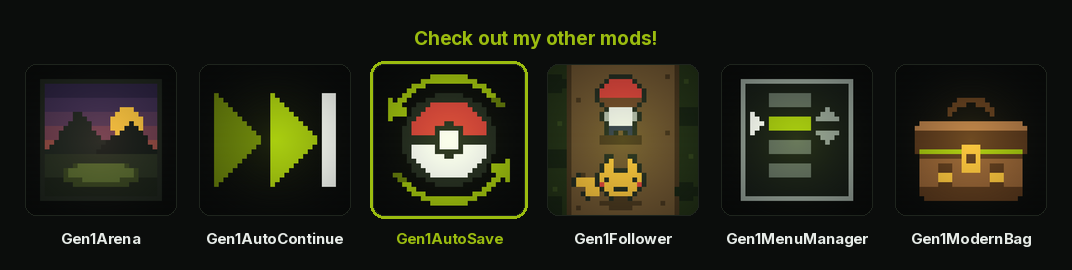
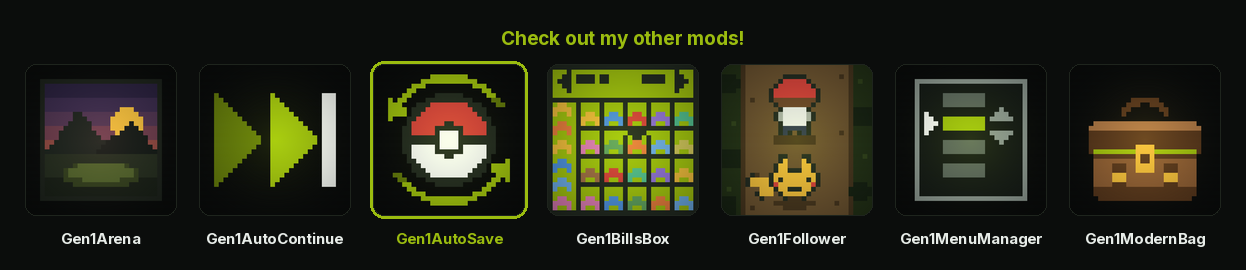
Add Gen1BillsBox, and rebuild the feed when a mod releases
Two things, both about the index catching up with its mods.

**Gen1BillsBox joins the index.** A Gen 3-style storage screen that replaces
Bill's PC: the party down the left, the open box as a 5x4 grid on the right,
and a cursor that picks a POKeMON up and puts it down. Tracking
wild1walker/Gen1BillsBox, currently 1.0.6.

Its icon is Pikachu coming up out of a cardboard box -- drawn over the far
flaps and under the near wall, which is what puts him in the box rather than
behind it. make_icons.py gains bills_box() keyed on the mod's id. Rebuilding
every icon still reproduces the other six byte for byte.

The lineup strips are regenerated with him in them, which is why all seven
change: the strip is one row, so a seventh tile moves every tile in it. The
README table, both alt texts and the two places that counted the mods follow.

**A release now says so instead of waiting to be noticed.** Gen1ModernBag
tagged 1.1.0 at 22:32 and the feed still described 1.0.0, because the last
rebuild had run at 05:44 and nothing was due until 05:17 the next morning.
That is the design working as written -- up to a day between tagging a
release and the card offering it -- and it is the wrong trade for a feed
whose whole job is to be current.

So index.yml now also listens for a `mod-released` repository_dispatch, and
every mod repo carries .github/workflows/notify-index.yml to fire it. The
payload only names the mod for the log: the build reads every entry's
[…]

diff --git a/site/index.html b/site/index.html
@@ -10,7 +10,7 @@
 <link rel="apple-touch-icon" href="favicon.png">
 
 <!-- The strip is the unfurl rather than the wordmark: it is opaque, and it
-     shows the six mods and their names, which is what someone dropping the
+     shows the seven mods and their names, which is what someone dropping the
      link in a chat wants the preview to say. -->
 <meta property="og:type" content="website">
 <meta property="og:site_name" content="Gen1Wild">
@@ -20,7 +20,7 @@
 <meta property="og:image" content="https://wild1walker.github.io/Gen1Wild/banners/lineup.png">
 <meta property="og:image:width" content="1072">
 <meta property="og:image:height" content="231">
-<meta property="og:image:alt" content="Gen1Arena, Gen1AutoContinue, Gen1AutoSave, Gen1Follower, Gen1MenuManager and Gen1ModernBag">
+<meta property="og:image:alt" content="Gen1Arena, Gen1AutoContinue, Gen1AutoSave, Gen1BillsBox, Gen1Follower, Gen1MenuManager and Gen1ModernBag">
 <meta name="twitter:card" content="summary_large_image">
 
 <style>

diff --git a/tools/make_icons.py b/tools/make_icons.py
@@ -323,6 +323,72 @@ def modern_bag():
         a.rect(x, 23, x + 2, 24, AMBER)
     return a, AMBER
 
+def bills_box():
+    """Pikachu coming up out of the box.
+
+    The mod replaces a PC that only ever showed you a list of twenty names,
+    so the icon shows the one thing that list never did: what is actually in
+    the box.  He is drawn over the far flaps and under the near wall, which
+    is what puts him inside the box rather than behind it.
+    """
+    a = Art()
+    card = (0xb5, 0x86, 0x4e)                      # cardboard, lit from above
+    card_d = (0x8a, 0x63, 0x36)
+    card_l = (0xcf, 0xa2, 0x66)
+    pika = AMBER
+    pika_d = (0xc2, 0x8e, 0x22)
+
+    # The two far flaps, folded back and away.  These are behind him.
+    a.poly([(5, 18), (1, 12), (5, 9), (12, 16)], card_d)
+    a.poly([(26, 18), (30, 12), (26, 9), (19, 16)], card_d)
+
+    # An ear is three shapes over each other: the whole ear a shade darker,
+    # the ear inside that, and the black tip inside that again.  The darker
+    # one is doing the work -- a black tip against the dark behind it loses
+    # its outline entirely without a rim to sit in.
+    for outer, inner, tip in (
+        ([(12.8, 11.6), (15.6, 9.6), (11.2, 0.0), (8.0, 1.5)],
+         [(12.5, 10.7), (14.8, 9.2), (10.9, 1.0), (8.6, 2.1)],
+         [(11.2, 0.0), (8.0, 1.5), (10.1, 6.0), (13.3, 4.5)]),
+        ([(19.2, 11.6), (16.4, 9.6), (20.8, 0.0), (24.0, 1.5)],
+         [(19.5, 10.7), (17.2, 9.2), (21.1, 1.0), (23.4, 2.1)],
+         [(20.8, 0.0), (24.0, 1.5), (21.9, 6.0), (18.7, 4.5)]),
+    ):
+        a.poly(outer, pika_d)
+        a.poly(inner, pika)
+        a.poly(tip, INK)
+
+    a.ellipse(16, 14.2, 6.8, 5.6, pika_d)          # the head, on its own rim
+    a.ellipse(16, 13.6, 6.6, 5.4, pika)
+    a.disc(10.8, 16.0, 2.0, RED)                   # cheeks
+    a.disc(21.2, 16.0, 2.0, RED)
+    for ex, gx in ((12.8, 12), (19.2, 19)):        # eyes, with a glint each
+        a.disc(ex, 12.2, 1.7, INK)
+        a.px(gx, 11, WHITE)
+    a.px(16, 14, INK)                              # nose, over the two lips
+    a.rect(14, 16, 15, 16, INK)                    # and the mouth they open
+    a.rect(17, 16, 18, 16, INK)
+    a.rect(15, 17, 17, 17, INK)
+
+    # The near wall, drawn over him: below this line he is in the box.
+    a.rect(3, 18, 28, 29, card)
+    a.rect(3, 18, 28, 19, card_l)                  # the rim, catching light
+    a.rect(3, 27, 28, 29, card_d)                  # and the shadowed foot
+    a.rect(15, 20, 16, 26, card_d)                 # the seam down the front
+    a.frame(3, 18, 28, 29, card_d)
+
+    # Both paws over the rim, holding himself up on it.
+    for x in (6, 22):
+        a.rect(x, 16, x + 3, 19, pika)
+        a.rect(x, 19, x + 3, 19, pika_d)
+        a.px(x + 1, 16, pika_d)
+        a.px(x + 2, 16, pika_d)
+
+    # The two near flaps, folded down over the front corners.
+    a.poly([(3, 18), (3, 25), (7, 22), (7, 18)], card_l)
+    a.poly([(28, 18), (28, 25), (24, 22), (24, 18)], card_l)
+    return a, AMBER
+
 
 ICONS = {
     "gen1autosave": autosave,
@@ -331,6 +397,7 @@ ICONS = {
     "Gen1MenuManager": menu_manager,
     "Gen1Follower": gen1_follower,
     "gen1_modern_bag": modern_bag,
+    "Gen1BillsBox": bills_box,
 }
 
 

diff --git a/README.md b/README.md
@@ -8,7 +8,7 @@
 </p>
 
 <p align="center">
-  <a href="https://wild1walker.github.io/Gen1Wild/"><img src="site/banners/lineup.png" alt="Gen1Arena, Gen1AutoContinue, Gen1AutoSave, Gen1Follower, Gen1MenuManager and Gen1ModernBag" width="920"></a>
+  <a href="https://wild1walker.github.io/Gen1Wild/"><img src="site/banners/lineup.png" alt="Gen1Arena, Gen1AutoContinue, Gen1AutoSave, Gen1BillsBox, Gen1Follower, Gen1MenuManager and Gen1ModernBag" width="920"></a>
 </p>
 
 ## What is in the index
@@ -18,6 +18,7 @@
 | <img src="mods/Wild@gen1arena/thumbnail.png" width="54" alt=""> | **[Gen1Arena](https://github.com/wild1walker/Gen1Arena)** | 2D backdrops behind battles, picked by map, tileset and how the encounter started. |
 | <img src="mods/Wild@gen1_auto_continue/thumbnail.png" width="54" alt=""> | **[Gen1AutoContinue](https://github.com/wild1walker/Gen1AutoContinue)** | Boot to title, one press, playing. Skips the intro, the CONTINUE / NEW GAME menu and the save-info window. |
 | <img src="mods/Wild@gen1autosave/thumbnail.png" width="54" alt=""> | **[Gen1AutoSave](https://github.com/wild1walker/Gen1AutoSave)** | Autosaves on a play-time timer and after battles, catches and new areas, with optional rollback backups. |
+| <img src="mods/Wild@Gen1BillsBox/thumbnail.png" width="54" alt=""> | **[Gen1BillsBox](https://github.com/wild1walker/Gen1BillsBox)** | Replaces Bill's PC with the box it was standing in for: the party down the left, twenty visible slots on the right, and a cursor that carries a Pokémon. |
 | <img src="mods/Wild@Gen1Follower/thumbnail.png" width="54" alt=""> | **[Gen1Follower](https://github.com/wild1walker/Gen1Follower)** | All 251 Gen 1 and Gen 2 overworld followers, with Pokédex-proportional sizing and voxel support. Built from the PokéPC Followers work by Antigravity & gamecorner33. |
 | <img src="mods/Wild@Gen1MenuManager/thumbnail.png" width="54" alt=""> | **[Gen1MenuManager](https://github.com/wild1walker/Gen1MenuManager)** | Rearrange the START menu and the Pokémon Center PC menu: reorder rows, hide the ones you never touch, and pin field items and moves to rows of their own. |
 | <img src="mods/Wild@gen1_modern_bag/thumbnail.png" width="54" alt=""> | **[Gen1ModernBag](https://github.com/wild1walker/Gen1ModernBag)** | Seven inventory pockets with auto-sorting, Favorites, pinned items, quick search, TM/HM tools and no capacity limit. Derived from FAFF0x's Modern Bag. |
@@ -127,11 +128,11 @@ before it goes in:
   shape.
 - Ids must be unique within this feed.
 
-**Versions look after themselves.** With `github` set, the nightly rebuild
-reads that repo's Releases, takes the newest one with a `.zip` asset, and puts
-it on the card — so tag a release in the mod's own repo and this index catches
-up without being touched. The `version` in `meta.json` is only the fallback
-shown when no release can be resolved.
+**Versions look after themselves.** With `github` set, a rebuild reads that
+repo's Releases, takes the newest one with a `.zip` asset, and puts it on the
+card — so tag a release in the mod's own repo and this index catches up without
+being touched. The `version` in `meta.json` is only the fallback shown when no
+release can be resolved.
 
 Opt out with `"automatic_version_check": false` and give the entry its own
 `"downloadURL"` pointing at an installable `.zip`.
@@ -140,7 +141,7 @@ Opt out with `"automatic_version_check": false` and give the entry its own
 
 The wordmark at the top of this file is hand-made, and it is the whole
 family's -- every mod repo carries the same file at `docs/banner.png` and
-leads with it, under its own name. One mark, seven repos: a reader who has
+leads with it, under its own name. One mark, eight repos: a reader who has
 seen one of these mods recognises the next one on sight, which is the entire
 job a mark has.
 
@@ -174,7 +175,7 @@ It writes `site/banners/lineup.png` -- the plain one, above -- and one
 `lineup-<Mod>.png` per mod, which is the same strip with that mod ringed
 under a **Check out my other mods!** line. The plain strip is also the link
 preview: `site/index.html` points `og:image` at it, so pasting the index URL
-into a chat unfurls as the six mods and their names rather than a bare link. Each mod repo carries its own as
+into a chat unfurls as the seven mods and their names rather than a bare link. Each mod repo carries its own as
 `docs/lineup.png` and links it, and its wordmark, back to the live index, so
 a reader who lands on any one mod can see the rest of the family and where
 the page they are on sits in it.
@@ -210,9 +211,30 @@ python3 tools/build_index.py                    # rebuild
 GITHUB_TOKEN=... python3 tools/build_index.py   # ... without the 60/hour limit
 ```
 
-CI does it on every push that touches `mods/` or `tools/`, nightly at 05:17
-UTC, and on demand from the Actions tab. A rebuild that changes nothing keeps
-the previous `generated_at` and commits nothing, so a quiet night stays quiet.
+CI does it on every push that touches `mods/` or `tools/`, whenever a mod
+repo says it has published a release, nightly at 05:17 UTC, and on demand from
+the Actions tab. A rebuild that changes nothing keeps the previous
+`generated_at` and commits nothing, so a quiet night stays quiet.
+
+### When a mod publishes a release
+
+Every mod repo carries `.github/workflows/notify-index.yml` — the same file in
+all of them, since which mod it is comes from the repository it runs in. On a
+published release it fires a `mod-released` `repository_dispatch` at this repo,
+which rebuilds the feed within the minute. It keys on the release rather than
+on the release workflow, so it fires for one cut by hand exactly as it does for
+a built one.
+
+That call is cross-repository, so `github.token` cannot make it — that token
+only ever reaches the repo it was issued for. It needs **`INDEX_DISPATCH_TOKEN`**
+as an Actions secret in each mod repo: a fine-grained personal access token
+scoped to `wild1walker/Gen1Wild` alone, with **Contents: read and write**, which
+is what the dispatches endpoint checks.
+
+Until that secret is set the workflow is inert by design — it says so in the
+run log and exits green, and the nightly rebuild picks the release up as it
+always did. So the worst case is the behaviour this repo had before, never a
+failed release.
 
 ## Where it is served from
 

diff --git a/mods/Wild@Gen1BillsBox/description.md b/mods/Wild@Gen1BillsBox/description.md
@@ -1,0 +1,80 @@
+A Gen 3-style storage screen that **replaces** Bill's PC rather than sitting
+next to it: your party down the left, the open box as a 5x4 grid of twenty on
+the right, and a cursor that picks a POKéMON up and puts it down.
+
+Gen 1's PC is a menu of four verbs over a list of twenty names, and moving one
+POKéMON from box 3 to box 7 costs a withdraw, a box change and a deposit. This
+is the box that list was always standing in for, and nothing more than that:
+drawn in the Game Boy's own font, black line art and its standard bordered
+boxes. No type colours, no card chrome, no widescreen layout. The grid is Gen
+3's idea; every pixel drawing it is Gen 1's.
+
+## The screen
+
+The slots draw through the party menu's own icon renderer, so whatever menu
+sprites you already run show up in the box exactly as they show up in the
+party — a menu-icon mod is visible here without either mod knowing about the
+other.
+
+Each POKéMON also gets its own palette. The screen emits one SGB zone per
+POKéMON, carrying that species' colours, the way the battle and summary
+screens do, so a box shows twenty sets of colours where the Game Boy could
+show four. That is what forces the tile-aligned layout: a zone is addressed in
+tiles, so every cell is 24x24 and every party row 16 tall. The chrome stays
+black — shade 3 is `{0,0,0}` in the grey ramp, in `MEWMON` and in all 151
+species palettes alike, so the lines stay black whatever is laid over them.
+Your COLORS setting still decides what those palettes are.
+
+## Controls
+
+A picks a POKéMON up, puts it down, or swaps it with whatever is in the target
+slot. B is back and only back: it returns a carried POKéMON to the slot, and
+the box, it came from, and closes the screen only when your hands are empty —
+there is no way to leave holding a POKéMON. LEFT out of the first column
+crosses to the party and RIGHT crosses back, or SELECT from anywhere. UP out
+of the top row lands on the box header, where LEFT and RIGHT change box and A
+opens the twelve-box list. STATS and RELEASE moved to START, because A became
+pick up and put down.
+
+A carried POKéMON stays with the cursor across a box change, which makes a
+cross-box move one operation instead of three. Dropping onto an occupied slot
+swaps the two, so a full party and a full box can still trade and nothing is
+refused for want of space.
+
+The cursor in the grid is an arrow in the band above a POKéMON's head pointing
+down at it, and the same arrow hollow while that POKéMON is in your hand. The
+party pane keeps the party menu's own sideways filled and hollow glyphs, since
+six rows of sixteen fill that pane exactly and leave no band to put an arrow
+in.
+
+## BILL'S PC is BILL'S BOX
+
+The Pokémon Center PC's storage row reads SOMEONE'S BOX until you meet Bill
+and BILL'S BOX after, following the same `EVENT_MET_BILL` gate the vanilla
+names follow, and the three sentences that name the machine elsewhere follow
+it. Those are re-worded rather than replaced — one substitution of the
+machine's name over the extracted line — so a localized import keeps its own
+wording for the rest of the sentence.
+
+## Catching into a full box
+
+The engine's own `Boxes.deposit` already walks forward from the box you have
+open and drops the POKéMON in the first one with room; a catch only fails once
+all 240 places are taken. What it never did was tell you, because the line it
+prints is the cart's own and the cart never needed to name a box. So this mod
+adds one line after it — *"BOX 1 was full! / Now using BOX 7."* — and moves the
+open box to match, which stops the PC opening on a box with no room in it and
+aims the next overflow at one that has space. Only when the two differ; an
+ordinary catch is exactly as quiet as it always was.
+
+## Settings
+
+In the mod manager's row for this mod: **PLACE CRY** (the cry of whichever
+POKéMON just landed in a slot), **HOLD TO MOVE**, **OPEN ON** (which side the
+cursor starts on), **FULL BOX NOTE** and **SWITCH ON FULL**.
+
+## Compatibility
+
+Replaces the PC's storage screen, so it conflicts with `modern_pc_ui` — run
+one or the other. Requires `engine_internals`, which is the first thing to
+switch off if a game update breaks the screen. Red, Blue and Yellow.
